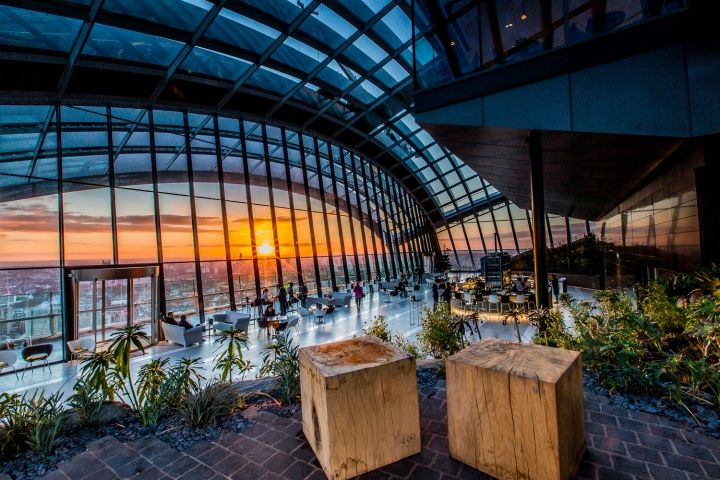
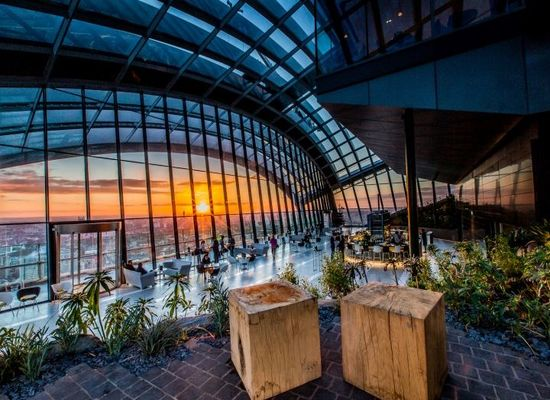
resizing venue images & adding media queries

diff --git a/src/components/VenuesComponents/VenueCard/VenueCard.scss b/src/components/VenuesComponents/VenueCard/VenueCard.scss
@@ -6,8 +6,12 @@
     position: relative;
     transition: color ease .4s;
 
+    @media screen and (max-width: 765px) {
+      height: 100%;
+    }
+
     &:hover {
-      box-shadow: 0px 6px 18px 2px rgba(209,209,209,1);
+      box-shadow: 0px 6px 18px 2px rgba(209, 209, 209, 1);
     }
 
     &:hover>.venue-card__overlay>.venue-card__features {
@@ -54,10 +58,14 @@
     margin: 0;
     align-self: center;
     transition: color ease .4s;
+
+    @media screen and (max-width: 765px) {
+      font-size: 1.6rem;
+    }
   }
 
   &__features {
-    max-height: 0rem;
+    max-height: 0;
     overflow: hidden;
     transition: max-height ease .75s;
 

diff --git a/src/components/VenuesComponents/Venues/Venues.scss b/src/components/VenuesComponents/Venues/Venues.scss
@@ -4,6 +4,12 @@
 
   display: grid;
   grid-template-columns: repeat(auto-fit, minmax(32rem, 1fr));
-  grid-gap: 3rem;
+  grid-gap: 2rem;
 
+  @media screen and (max-width: 765px) {
+    grid-column: full-start / full-end;
+    margin: 6rem 1.5rem;
+
+    grid-template-columns: repeat(auto-fit, minmax(28rem, 1fr));
+  }
 }
